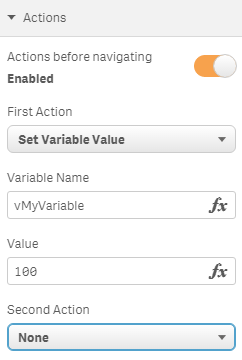
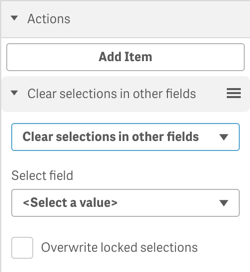
docs: update docs & images based on v1

Changed region(s): [[0.0, 0.0, 1.0, 1.0]]

diff --git a/docs/config-actions.md b/docs/config-actions.md
@@ -1,10 +1,6 @@
 
 ### Actions
-You can furthermore define up to two action which will be executed before the navigation behavior will be performed.
-
-First enable this option:
-
-> ![](./images/sense_navigation_actions_enable.png)
+You can furthermore define as many actions as you want, which will be executed before the [navigation behavior](config-navigation-behavior.md) will be performed.
 
 Then select from the list of predefined actions:
 
@@ -14,4 +10,5 @@ Depending on the selected action you'll see additional settings you can define, 
 
 > ![](./docs/images/sense_navigation_actions_settings.png)
 
-As soon as you have defined the first action, you will also be able to define a second action.
+As soon as you have defined the first action, you will also be able to define another action.
+Either after the last action or in case no action has been defined, the [Navigation behavior](./config-navigation-behavior.md) will then apply.

diff --git a/docs/configuration.md b/docs/configuration.md
@@ -2,6 +2,6 @@ Drag & drop the object onto a sheet (as you would do it with any other native ob
 Then define how the **sense-navigation** should behave:
 
 - [Layout Options](./docs/config-layout.md)
-- [Navigation Behavior](./docs/config-navigation-behavior.md)
 - [Actions](./docs/config-actions.md)
+- [Navigation Behavior](./docs/config-navigation-behavior.md)
 
